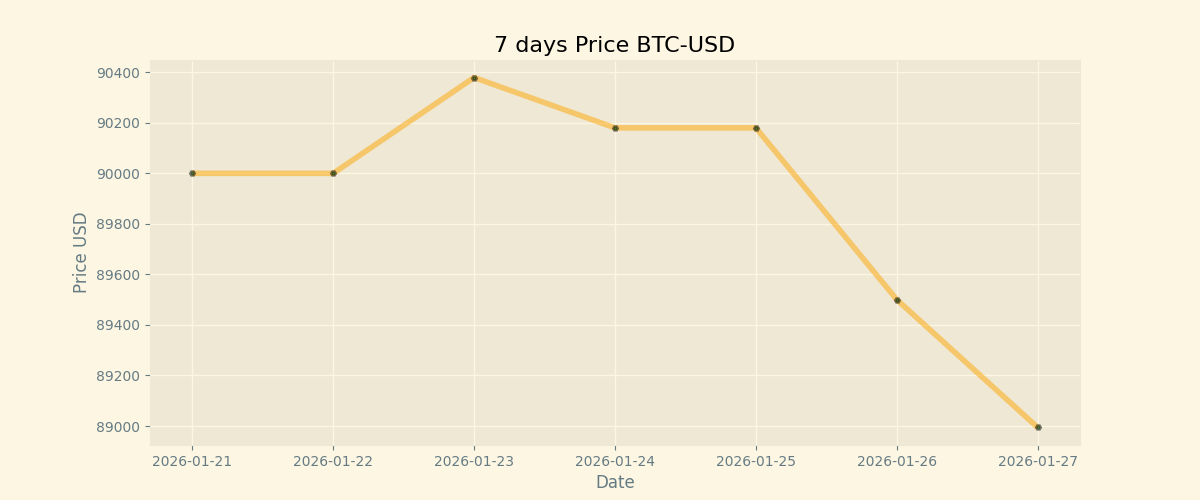
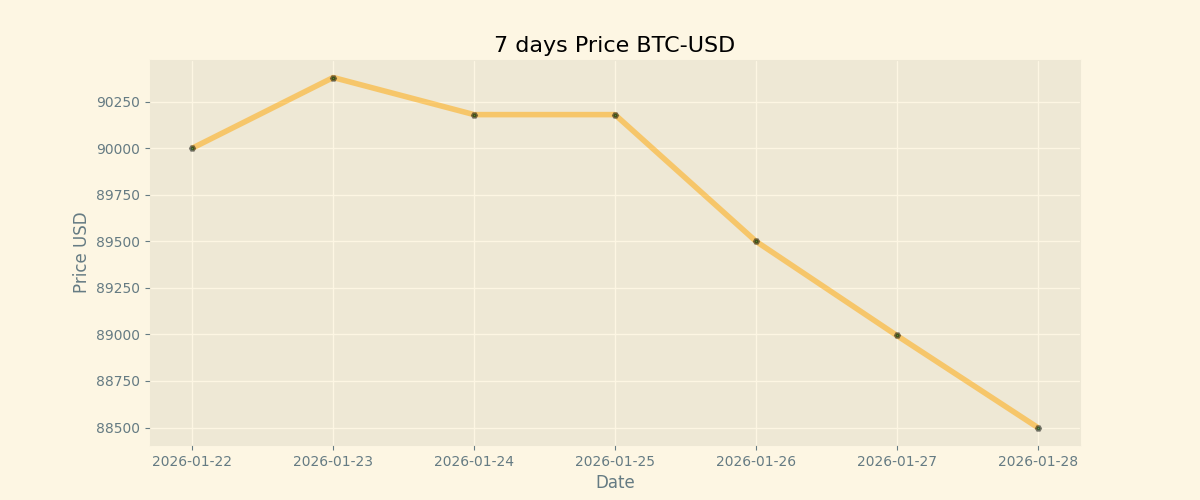
Duty Updates 2026-01-28

diff --git a/README.md b/README.md
@@ -9,7 +9,7 @@
 
 | Currency | Price           |
 | -------- | --------------- |
-| **BTC**  | **$ 88994.08** |
+| **BTC**  | **$ 88500.0** |
 | **ETH**  | **$ 2890.0** |
 
 ## BTC chart
